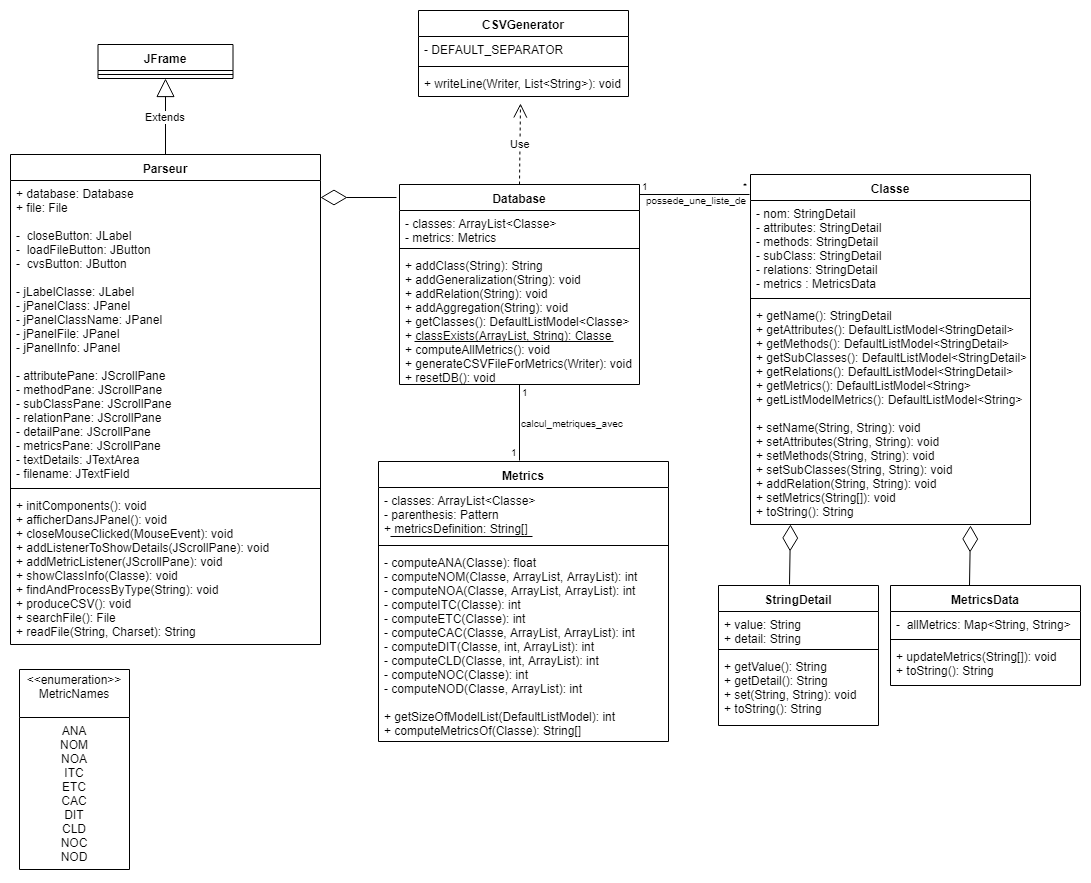
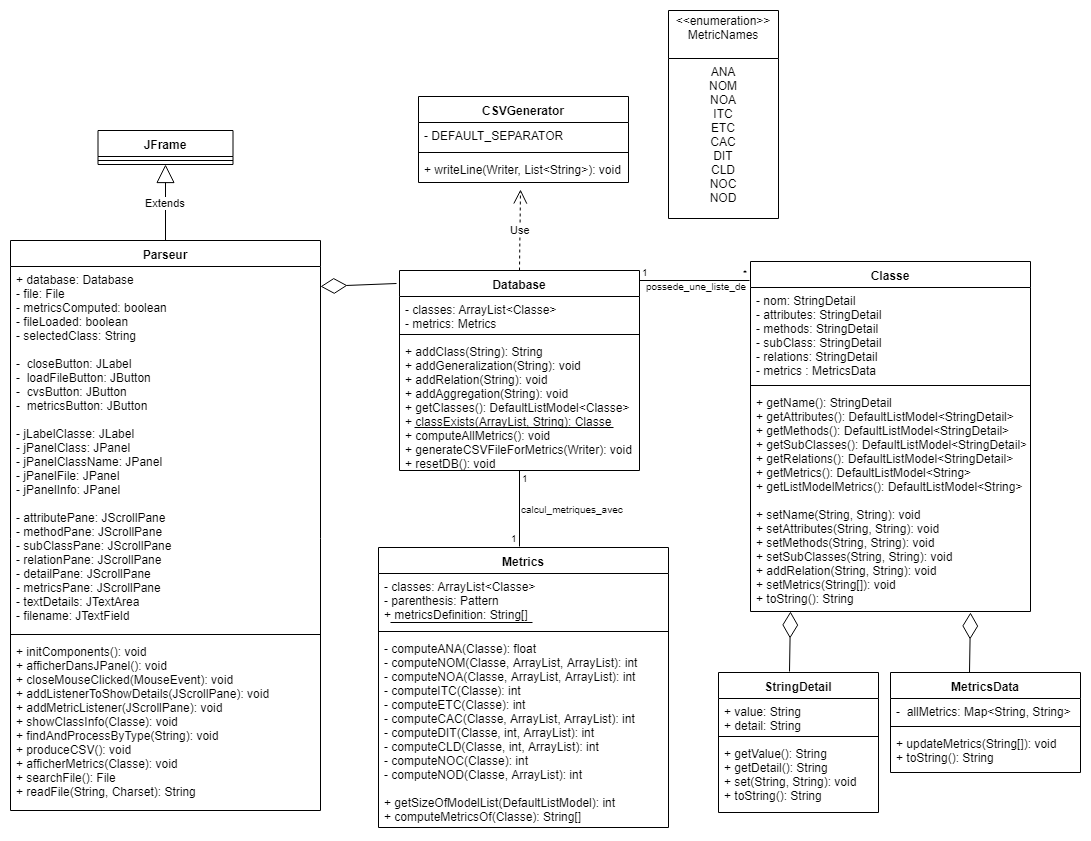
update UML - Affichage métriques calcul tout

diff --git a/src/com/parseur/main/Parseur.java b/src/com/parseur/main/Parseur.java
@@ -36,7 +36,7 @@ import javax.swing.filechooser.FileSystemView;
 public class Parseur extends javax.swing.JFrame {
 
 	public Database database;
-	public File file;
+	private File file;
 
 	private JLabel closeButton;
 	private JButton loadFileButton;
@@ -58,40 +58,16 @@ public class Parseur extends javax.swing.JFrame {
 	private JTextArea textDetails;
 	private JTextField filename;
 	
+	private boolean metricsComputed;
+	private boolean fileLoaded;
 	private String selectedClass;
 
 	public Parseur() {
 
 		initComponents();
 		database = new Database();
-
-		//Pour charger directement Ã  l'ouverture ---- POUR DEBUGGER SEULEMENT
-		/*file = new File("./Ligue.ucd");
-		if (file != null) {
-			filename.setText(file.getName());
-			filename.setEditable(false);
-			try {
-				// reintialisation des donnees aprÃ¨s chaque chargement de fichier
-				database.resetDB();
-				jPanelClass.removeAll();
-				String fileStrings = readFile(file.toPath().toString(), Charset.forName("UTF-8"));
-				// decoupage des instructions separees par ";" (classe, generalisation, relations)
-				String[] tab = fileStrings.split("\\;");
-				for (int j = 0; j < tab.length; j++) {
-					// analyse le type d'instruction puis la traite
-					findAndTreatType(tab[j]);
-				}
-				
-				// calcul des metriques
-				database.computeAllMetrics();
-				
-				// base de données construite : on l'affiche dans la JFrame Parseur
-				afficherDansJPanel();
-			} catch (IOException ex) {
-				System.out.println("Could not read file");
-			}
-		}*/
-		// ---------------
+		metricsComputed = false;
+		fileLoaded = false;
 		
 		loadFileButton.addActionListener(new ActionListener() {
 			public void actionPerformed(ActionEvent e) {
@@ -104,6 +80,9 @@ public class Parseur extends javax.swing.JFrame {
 						// reintialisation des donnees apres chaque chargement de fichier
 						database.resetDB();
 						jPanelClass.removeAll();
+						selectedClass = "";
+						metricsComputed = false;
+						fileLoaded = false;
 
 						String fileStrings = readFile(file.toPath().toString(), Charset.forName("UTF-8"));
 
@@ -114,9 +93,6 @@ public class Parseur extends javax.swing.JFrame {
 							// analyse le type d'instruction puis la traite
 							findAndTreatType(tab[j]);
 						}
-						
-						// calcul des metriques
-						database.computeAllMetrics();
 						
 						// base de donnees construite : on l'affiche dans la JFrame Parseur
 						afficherDansJPanel();
@@ -141,6 +117,7 @@ public class Parseur extends javax.swing.JFrame {
 	 * @throws IOException erreur de lecture
 	 */
 	public String readFile(String path, Charset encoding) throws IOException {
+		fileLoaded = true;
 		byte[] encoded = Files.readAllBytes(Paths.get(path));
 		return new String(encoded, encoding);
 	}
@@ -270,8 +247,8 @@ public class Parseur extends javax.swing.JFrame {
 					l.repaint();
 					
 					metricsButton.addMouseListener(new java.awt.event.MouseAdapter() {
-						public void mouseClicked(java.awt.event.MouseEvent evt) {
-							calculerMetrics(classeActuel);
+						public void mouseReleased(java.awt.event.MouseEvent evt) {
+							if(!metricsComputed) afficherMetrics(classeActuel); 
 						}
 					});
 					
@@ -320,6 +297,8 @@ public class Parseur extends javax.swing.JFrame {
 		listModel = selectedClass.getRelations();
 		relationsJList = new JList<StringDetail>(listModel);
 		listModelMetrics = selectedClass.getListModelMetrics();
+		metricsJList = new JList<String>(listModelMetrics);
+		
 
 		attributesJList.setFont(font);
 		attributesJList.setForeground(color);
@@ -329,6 +308,15 @@ public class Parseur extends javax.swing.JFrame {
 		subClassesJList.setForeground(color);
 		relationsJList.setFont(font);
 		relationsJList.setForeground(color);
+		metricsJList.setFont(font);
+		metricsJList.setForeground(color);
+		
+		// On affiche les métriques associées au classe uniquement si l'utilisateur ait préalablement demandé à les calculer
+		if(metricsComputed) {
+			metricsPane.setViewportView(metricsJList);
+		}else {
+			metricsPane.setViewportView(null);
+		}
 
 		// chargement des informations de la classe selectionne dans les panels
 		attributePane.setViewportView(attributesJList); // ajout des attributs de la classe selectionnee
@@ -369,6 +357,7 @@ public class Parseur extends javax.swing.JFrame {
 	public void addMetricListener(JScrollPane panel) {
 		JViewport viewport = panel.getViewport(); 
 		JList<String> list = (JList<String>) viewport.getView(); 
+		if(list == null) return; // Les métriques non pas encore été calculés, on ne mets pas de liens d'écoute
 
 		list.addListSelectionListener(new ListSelectionListener() {
 			@Override
@@ -418,8 +407,11 @@ public class Parseur extends javax.swing.JFrame {
 		}
 	}
 	
-	public void calculerMetrics(Classe selectedClass){
-		if (selectedClass != null){
+	public void afficherMetrics(Classe selectedClass){
+		if (fileLoaded){
+			database.computeAllMetrics();
+			metricsComputed = true;
+			// On rafraichit l'affichage des métriques de la classe en cours
 			JList<String> metricsJList;
 			DefaultListModel<String> listModelMetrics;
  			listModelMetrics = selectedClass.getListModelMetrics();
@@ -429,12 +421,14 @@ public class Parseur extends javax.swing.JFrame {
  			metricsJList.setFont(font);
 			metricsJList.setForeground(color);
  			metricsPane.setViewportView(metricsJList);
+ 			
+ 			
  		} else {
-			JOptionPane.showMessageDialog(this,
-					    "Vous devez d'abord sélectionner une classe avant de pouvoir calculer les métriques.",
-					    "Absence de classe sélectionnée",
-					    JOptionPane.WARNING_MESSAGE);
-		}
+ 			JOptionPane.showMessageDialog(this,
+				    "Vous devez d'abord charger un fichier à l'aide du bouton 'Charger fichier' pour calculer des métriques.",
+				    "Aucun fichier .ucd chargé",
+				    JOptionPane.WARNING_MESSAGE);
+ 		}
 	}
 
 	/** 

diff --git a/src/com/parseur/main/Database.java b/src/com/parseur/main/Database.java
@@ -233,16 +233,14 @@ public class Database {
 		}
 		
 		for (int i = 0; i < classes.size(); i++) {				
-			Classe currentClass = classes.get(i);
-			System.out.println(currentClass + " : ");
+			Classe selectedClass = classes.get(i);
 			
 			// Calcule les metriques de currentClass
-			String[] data = metrics.computeMetricsOf(currentClass);
+			String[] data = metrics.computeMetricsOf(selectedClass);
 			
 			if (data != null) {
 				// Actualise les metriques de currentClass
-				currentClass.setMetrics(data);
-				System.out.println(currentClass.getMetrics());
+				selectedClass.setMetrics(data);
 			}
 		}
 	}
